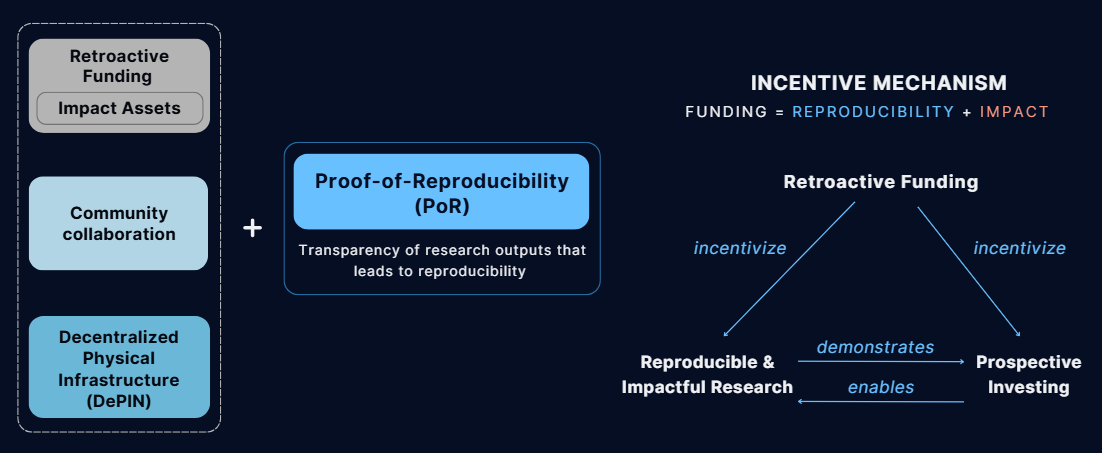
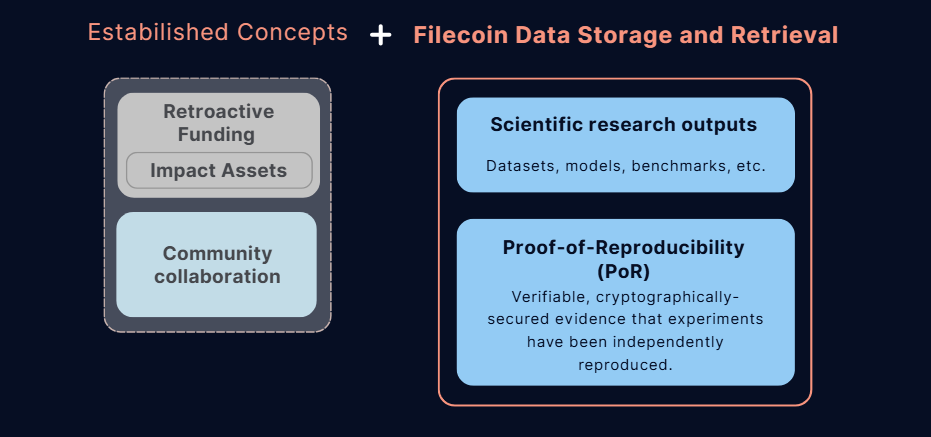
README file with updated information about platform.

diff --git a/README.md b/README.md
@@ -2,73 +2,92 @@
 
 ![header](assets/header.png)
 
-##  Overview
+## 🌍 Overview
 
-**Cairn** is protocol and platform that tracks the reuse and reproduction of scientific outputs in the field of embodied AI, and retroactively rewards impactful work (both scientific and supporting).
- 
- > By leveraging decentralized storage, smart contracts, and tokenized impact assets, Cairn creates a transparent, incentive-aligned ecosystem for scientists, funders, and the broader research community.
+**Cairn** is a decentralized protocol and platform designed to track the reuse and reproducibility of scientific outputs in the field of artificial intelligence, retroactively rewarding impactful research.\
+<br>
+By leveraging decentralized storage, smart contracts, and tokenized impact assets, Cairn creates a transparent, incentive-aligned ecosystem that connects scientists, funders, and the research community. It introduces the Proof of Reproducibility (PoR) to verify experiment replication, uses Filecoin for secure and verifiable data storage, and employs smart contracts on the Filecoin Virtual Machine to manage project registration, impact evaluation, and retroactive funding via USDFC stablecoin payments.
 
-![desci](assets/filecoin.png)
+<br>
+<img src="assets/filecoin.png" alt="desci" width="800"/>
 
-### Core Features: 
-  - 🔄 Tracks reuse and reproduction of scientific outputs  
-  - 🏆 Retroactively rewards impactful work  
-  - 🔍 Ensures transparency and data integrity  
----
-
-## Challenges in Scientific Research
-
-Scientific research, especially in **embodied AI**, faces systemic challenges: 
-
-- **Poor incentives for long-term, impactful work:** \
-Academic recognition and funding systems tend to reward novelty and publication volume over real-world usability, long-term impact, and reproducibility.
-- **Reproducibility crisis**: \
-A large portion of published research cannot be reliably reproduced, leading to wasted effort, erosion of trust, and slower scientific progress.  
-- **Centralized funding**: \
-Funding decisions are concentrated in a few institutions, which can limit diversity in research agendas and hinder innovation from underrepresented contributors.
 <br>
 
-> Together, these factors create a research ecosystem where reusable and impactful work is difficult to track, undervalued in funding decisions, and ultimately underutilized—slowing progress in one of the most promising and societally significant areas of artificial intelligence.
+### Core Features:
+
+- ✅ **Proofs of Reproducibility (PoRs)** - Verifiable evidence that research outputs (models, datasets, papers) can be independently replicated.
+
+- 📊 **Impact Tracking & Metrics** - Aggregates reuse signals across HuggingFace, ArXiv, etc. and surfaces which outputs are not only reproducible but also used by the community.
+
+- 💰 **Retroactive Funding Flows** - Rewards are distributed based on verified reproducibility and impact of the research outputs. 
+
+
+
+## ⚠️ Challenges in Scientific Research
+
+Scientific research, especially in the field od **artificial intelligence**, faces systemic challenges that hinder progress and equitable participation:
+
+- **🚫 Poor incentives for long-term, impactful work:** \
+Academic recognition and funding systems tend to reward novelty and publication volume over real-world impact, long-term usability, and reproducibility.
+
+- **🔎 Reproducibility  and transparency issues:** \
+A significant portion of published AI research cannot be reliably reproduced due to opaque methodologies, missing data, or proprietary tooling. This not only wastes resources but also undermines trust and slows scientific advancement.
+
+- **🔒  Centralized control and limited access:** \
+Research output and funding are heavily concentrated within a small number of elite institutions and corporations. This creates high barriers to entry, excludes underrepresented voices, and narrows the diversity of ideas and approaches.
+
+- **💸 Funding inefficiency:** \
+Funders struggle to identify and support projects with the highest potential for real-world impact, largely due to a lack of standardized, transparent indicators of research quality and reuse potential.
+
 <br>
 
-![problem](assets/problem.png)<br> 
-
+> Collectively, these challenges create a research ecosystem where meaningful, reusable, and socially beneficial work is hard to surface, fund, and scale, ultimately limiting the potential of AI research to serve broader public good.
+<br>
 
 ---
-##  Our Solution
+## 💡  Our Solution
 
-We combined established concepts with a new system (Proof of Reproducibility) designed to provide verifiable evidence for scientific experiments:
+We propose a transparent, community-driven system that incentivizes the production and validation of reproducible, high-impact research through retroactive funding:
 
-- **Proof of Reproducibility (PoR):** Verifiable, cryptographically-secured evidence that experiments have been independently reproduced. 
-- **Decentralized Storage:** All research data, models, and proofs are stored on IPFS for permanence and verifiability. 
-- **Smart Contracts:** Manage project registration and proof of reproducibility, impact evaluation, and funding distribution on-chain.  
-- **Hypercerts:** Tokenized certificates of impact, representing the value of scientific contributions.  
-- **Retroactive Funding:** Rewards are distributed based on actual impact and reproducibility, not just proposals.  
-- **DAO Governance:** Community-driven evaluation and funding decisions.
+1. **Retroactive Funding as Incentive** \
+Researchers are rewarded after their work has demonstrated real-world impact and reproducibility. This shifts the incentive structure away from publication quantity toward long-term utility, transparency, and community use.
+
+2. **Reproducibility as a Funding Criterion**\
+ To qualify for funding, research outputs must be:
+   - Accompanied by clear, complete, and open instructions for reproduction
+   - Successfully reproduced by independent contributors
+   - Used or cited by others in the ecosystem (impactful)
+
+3. **Community Verification (DAO)** \
+  A decentralized group of contributors evaluates reproducibility claims, submits proofs, and votes on their validity. This crowdsourced model improves trust, scalability, and reduces gatekeeping.
+
+4. **Decentralized Storage** \
+ All research artifacts and reproducibility proofs are stored on Filecoin, ensuring they are:
+    - Immutable and tamper-proof
+    - Publicly accessible and verifiable
+    - Permanently linked to the funding mechanism via smart contracts
+
 <br> 
+<img src="assets/PoR.png" alt="PoR" width="800"/>
 
-![PoR](assets/PoR.png)
+<br>
 
-
-The system is designed to incentivize and validate impactful, reproducible scientific research by connecting scientists, funders, and decentralized infrastructure via a Web3-native workflow. It is built around the
+The system is designed to incentivize and validate impactful, reproducible scientific research by connecting researchers, funders, and decentralized infrastructure via a Web3-native workflow. It is built around the
 Cairn platform, with various stakeholders and components described below:
+<br>
 
-<br> 
+<img src="assets/Cairn_platform.png" alt="Concept" width="800"/>
 
-![Concept](assets/Cairn.png)
-<br> 
-
-> See [whitepaper](whitepaper/Cairn_whitepaper.pdf) for a detailed technical and conceptual overview. 
 ---
 
-## Filecoin integration
+## ⚙️ Filecoin integration
 Cairn integrates Filecoin technology as a foundational layer to ensure decentralized, secure, and verifiable storage of scientific research data and metadata:
 
 - **Smart Contracts on the Filecoin Network:**  
   Cairn’s smart contract is currently deployed on the Filecoin calibration testnet.
 
 - **Data Storage and Retrieval:**  
-  All scientific research outputs—including datasets, machine learning models, benchmarks, and Proofs of Reproducibility (PoRs)—are stored on **IPFS**. This ensures **data provenance, immutability, and long-term availability**.
+  All scientific research outputs—including datasets, machine learning models, benchmarks, and Proofs of Reproducibility (PoRs)—are stored on **Filecoin**. This ensures **data provenance, immutability, and long-term availability**.
 
 - **Crypto-based Payments with USDFC Stablecoin:**  
   Cairn uses the **USDFC stablecoin**, native to Filecoin’s ecosystem, to enable **stable, trustless, and efficient capital flows** between funders and researchers, supporting usage-based billing and retroactive funding models.
@@ -78,37 +97,61 @@ Cairn integrates Filecoin technology as a foundational layer to ensure decentral
 
 | Component         | Technology / Protocol         | Purpose                                              |
 |-------------------|------------------------------|------------------------------------------------------|
-| Storage           | **Filecoin**, **IPFS**       | Decentralized, verifiable storage of all research data and metadata |
+| Storage           | **Filecoin**      | Decentralized, verifiable storage of all research data and metadata |
 | Payments          | **USDFC Stablecoin**         | Stable, on-chain funding and rewards                 |
 | Smart Contracts   | **Filecoin Virtual Machine (FVM)** | Transparent, immutable project and funding logic     |
-| Impact Assets     | **Hypercerts**                   | Tokenized, tradable proof of  impact       |
 
----
 
-## How Cairn Works
 
-Cairn provides a transparent, decentralized workflow for tracking, verifying, and rewarding impactful scientific research:
 
-1. **Project Creation:**  
-  Scientists register new research projects on-chain, minting Hypercert impact assets to represent contributions. Project metadata and outputs are stored on IPFS, with their CIDs registered on the Cairn smart contract.
+## 👉 How Cairn Works
 
-2. **Recording Outputs:**  
-  Models, datasets, benchmarks, and results are published to IPFS and linked to the project via smart contracts. This ensures all research outputs are verifiable and permanently available.
+ ### 👩🔬 A Researcher’s Journey
+
+1. **Connect your account:**  
+  Link Cairn with HuggingFace, ArXiv, GitHub, and other platforms to automatically import your research.
+
+2. **Create a Project:**  
+  Select your existing research outputs or upload new ones - code, datasets, papers etc. and create a project with metadata and outputs.
 
 3. **Proof of Reproducibility (PoR):**  
-  Third parties independently replicate experiments and submit cryptographically-secured PoRs—experiment logs, video proofs, and receipts—stored on IPFS and linked on-chain. This provides verifiable evidence of reproducibility.
+  Evaluators review and replicate your work, and submit cryptographically-secured Proofs of Reproducibility (PoRs) logs and other proofs stored on Filecoin and linked on-chain. This provides verifiable evidence of reproducibility.
 
 4. **Impact Evaluation:**  
-  Designated scientists, funders, and evaluators vote on each project’s impact tier, determining eligibility for retroactive funding. Future implementations will introduce DAO-based community voting.
+  Designated evaluators, researchers and funders vote on each project’s impact. Future implementations will introduce DAO-based community voting.
 
 5. **Retroactive Funding:**  
-  Once a project meets the required criteria (outputs, PoRs, impact evaluation), USDFC funds are distributed proportionally to impact-asset holders based on verified impact.
+  Once a project meets the required criteria (verified PoRs, impact evaluation), it can be submitted for a funding round.
 
-**Dispute Resolution:**  
+     **Dispute Resolution:**  
 Community members can challenge submitted PoRs through a dispute mechanism, ensuring the integrity and trustworthiness of reproducibility claims.
 
----
-## Tech Stack ##
+
+### 💸 A Funder’s Perspective
+
+1. **Fund Research Projects:**  
+Start a funding round to support projects that align with what you value.
+
+2. **Assess Impact:**  
+  Track reproducibility metrics and identify projects delivering real value.
+
+3. **Track Your Contribution:**  
+onitor the real-world outcomes of your funding through transparent, on-chain reporting. 
+
+### 👀 A Guest’s Perspective
+
+1. **Explore Projects:**  
+Browse projects, models, datasets and other outputs that have verified proof of reproducibility.
+
+2. **Follow Impact:**  
+  See which projects are gaining traction and reuse.
+
+3. **Download Outputs:**  
+Download open-source data and PoR proofs from Filecoin.
+
+
+## 🛠 Tech Stack ##
+
 -  w3up-client – IPFS-based storage services (decentralized file management)
 - ethers.js – Blockchain network interactions & decentralized features
 - React – Component-based UI architecture
@@ -121,16 +164,13 @@ Community members can challenge submitted PoRs through a dispute mechanism, ensu
 👉 **Note:** For detailed setup instructions for smart contracts, frontend, and other modules, see the respective subdirectory README files.
 
 ---
-## Live Demo ##
 
-Visit: [Cairn app](https://octopus-app-5rjoy.ondigitalocean.app/)\
-Or watch our demo video: [YouTube](https://www.youtube.com/watch?v=aHEJTJmeWjM&ab_channel=LukaLevac)
+## 🌐 Live Demo ##
 
-## License ##
+[Try the Cairn App](https://cairn-app-9vb6z.ondigitalocean.app/)\
+▶️ Watch our demo video: [YouTube](https://www.youtube.com/watch?v=aHEJTJmeWjM&ab_channel=LukaLevac) \
+X:  Cairn [@cairn_platform](https://x.com/cairn_platform)
+
+## 📜 License ##
+
 This project is licensed under the MIT License.
-
-
-
-
-
-

diff --git a/app/frontend/README.md b/app/frontend/README.md
@@ -1,20 +1,35 @@
 # Cairn - Front End App
 
-![header](/assets/header.png)
+## 🌍 Overview
 
-## Live demo
+This is the frontend application for 👉 [Cairn app](https://cairn-app-9vb6z.ondigitalocean.app/), a decentralized platform that tracks the reproducibility and impact of AI research.
+The frontend provides dashboards for researchers, funders and guest to interact with Cairn’s backend services, smart contracts, and data ingestion APIs.
 
-Visit: https://octopus-app-5rjoy.ondigitalocean.app/ <br>
-
-
-> See [Quick Start](#quick-start) below to help you get started.
+<br>
+<img src="public/cairn_landing.png" alt="cairn" width="800"/>
 <br>
 
-![Cairn Front End App](public/scientistImage.png)
+<br>
+<img src="public/reproduced_projects.png" alt="reproduced_projects" width="800"/>
+<br>
 
+<br>
+<img src="public/PoR_download.png" alt="PoR_download" width="800"/>
+<br>
 
+## 🧪 Features Implemented
 
-## Overview
+- Project registration + metadata submission UI
+
+- Proof of Reproducibility (PoR) submission UI
+
+- Filecoin storage UI
+
+- Implementation of Minimal Funding Process
+
+- HuggingFace web2 data ingestion (upcoming)
+
+- Impact metrics integration (upcoming)
 
 ## Key Technologies
 
@@ -25,37 +40,35 @@ Visit: https://octopus-app-5rjoy.ondigitalocean.app/ <br>
 - **Vite**: Offers lightning-fast development server and optimized production builds.
 - **Tailwind CSS**: Enables rapid UI development with utility classes.
 
+## Live demo
 
-## Features
-
-- **Decentralized Storage**: Upload and retrieve files using IPFS.
-- **Blockchain Integration**: Interact with smart contracts on Filecoin Calibration test network.
-- **Responsive Design**: Mobile-friendly layouts powered by Tailwind CSS.
-- **Type-Safe Codebase**: Enhanced reliability and developer experience with TypeScript.
+Visit: [Cairn app](https://cairn-app-9vb6z.ondigitalocean.app/) <br>
 
 ---
-
-## Usage 
-- Register project:
-    - Use the `useRegisterProject` hook to register a new project with a name and description.
 
 ## Getting Started
 
 1. **Install dependencies**:
+
     ```bash
     npm install
     ```
+
 2. **Create a `.env` file** in the root directory and add your environment variables:
+
     ```env
     VITE_AGENT_KEY=xxxxx
     VITE_PROOF=xxxxx
     ```
-    Replace `xxxxx` with your actual values. To see how to get these values, refer to the [w3up-client docs](https://docs.storacha.network/)
+
 2. **Run the development server**:
+
     ```bash
     npm run dev
     ```
+
 3. **Build for production**:
+
     ```bash
     npm run build
     ```
@@ -70,53 +83,3 @@ Visit: https://octopus-app-5rjoy.ondigitalocean.app/ <br>
 - [Tailwind CSS Docs](https://tailwindcss.com/docs)
   
 ---
-
-###  Quick Start
-This is meant to be a quick start guide for users who want to quickly try out the Cairn protocol and platform.
-
-#### 🔵 Wallet Setup
-1. **Install MetaMask**:  
-   Download and install the [MetaMask browser extension](https://metamask.io/).
-2. **Create a Wallet**:
-    Follow the instructions to create a new wallet. Make sure to securely store your seed phrase.
-3. **Connect to Filecoin Calibration Testnet**:
-    - **Cairn app should prompt the user with correct chain data**
-    - If not, you can manually add the network:
-      - Open MetaMask and click on the network dropdown.
-      - Select "Add Network" and enter the following details:
-        - **Network Name**: Filecoin Calibration Testnet
-        - **New RPC URL**: https://rpc.ankr.com/filecoin_testnet
-        - Other data should be filled automatically.
-
-#### 🔵 Getting Testnet tFIL and USDFC
-1. **Get tFIL**:  
-   Use the [Filecoin Calibration Faucet](https://faucet.calibnet.chainsafe-fil.io/) to request testnet FIL (tFIL) for gas fees.\
-   Enter your wallet address in the input field and send 100 tFIL to your wallet.
-3. **Get USDFC**:
-    Use the [USDFC Faucet](https://forest-explorer.chainsafe.dev/faucet/calibnet_usdfc) to request USDFC tokens for funding projects.
-
-#### 🔵 Choosing a role
-To switch between Scientist and Funder dashboard head over to the top right corner, where you see your profile and wallet address. 
-
-#### 🔵 Register a New Project - Scientist role
-Before you can register a new project, you need to submit a minimum of one Proof of Reproducibility (PoR) and that PoR needs to get verified on-chain. The demo app is currently running on the testnet and it takes ~2 minutes to do that:
- 1. Click on the button or card "New project" and fill out the form. In this step you must also define your Funding Goal.
- 2. Click on the button "Create Project". This starts a 3 step process of the project being created on-chain:
-  - Confirm the transaction request in the Metamask wallet. The app is uploading the project metadata to IPFS. Then it starts minting the Hypercert.
-  - Confirm the withdrawal request for the Hypercert approval.
-  - Confirm the transaction request. The app is connecting the project and Hypercert token ID.
-    
- #### 🔵 Submitting Record Outputs - Scientist role
- 1. Click on "View Project" and head over to Research Outputs section and add fill out the Output fields
- 2. Confirm the transaction request in Metamask to record the outputs on-chain. 
-
-#### 🔵 Submiting a Proof of Reproducibility - Scientist role
-To submit a PoR, you need to select a project with a registered output. Click On "Submit Reproducibility", provide the requested repruducibility proof and submit.
-The verification of the PoR for this demo takes about 5 minutes. In the meantime, other users can dispute on your PoR if they find it not suitable. The timespan of this action would normally be a couple of days.
-
-#### 🔵 Fund a project - Funder role
-To fund a project you simply select a project in the Discovery tab, where you can see the funding amount and the impact score of each project. 
-For now the funding is only possible for the whole amount of the project's funding goal. Just clisk on the button "Fund" and you will see the project in your portfolio.
-
-
-